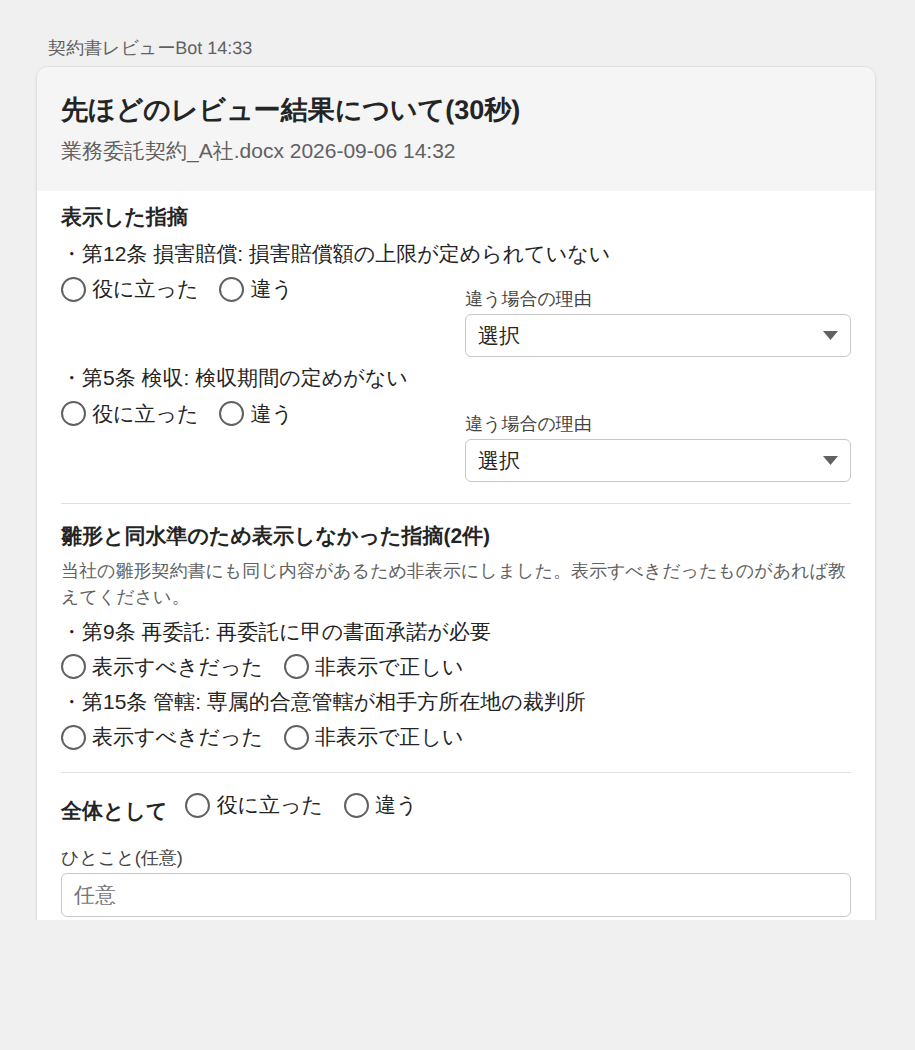
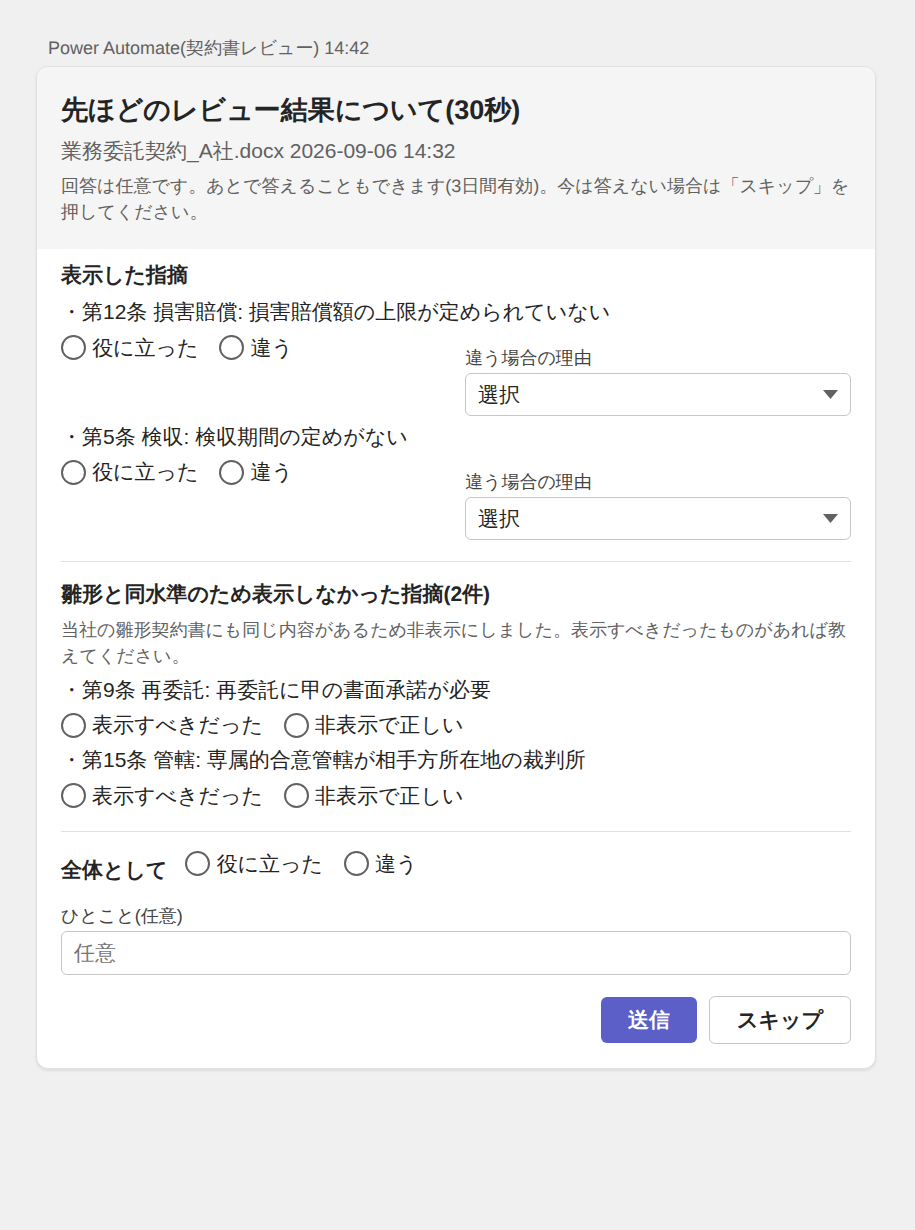
フィードバックカードを回答任意・スキップ可にし、後続質問を妨げない設計に変更
- docs/10 5節: F2b の遅延送信(crv_FeedbackDelayMinutes)・スキップ・
  3日で無音終了・後から回答可、F2a は「質問」ノードで待たず別トピックで
  受ける、後続質問のためのグローバル変数とフォローアップ用トピック
- templates/adaptive_card_f2.json にスキップ action と説明文を追加、
  モックアップ再生成
- docs/03: F2b に Delay と f2_skip の記録、F2a を待たない形に書き換え、
  フォローアップ用トピックと前提チェック・環境変数を追記
- docs/02: Feedback の評価に「スキップ」を追加。docs/07 に回答任意を追記
- docs/09: 図6 に後続質問・Delay・スキップ分岐、図1a のラベルを更新

Claude-Session: https://claude.ai/code/session_01LXw8Ckfxe2G9zAEHq5uY8p

diff --git a/docs/images/card_f2_mock.html b/docs/images/card_f2_mock.html
@@ -20,4 +20,4 @@ textarea{height:56px;resize:none}
 .edit{border-left:3px solid #5b5fc7;padding-left:10px;margin-top:6px}
 .actions{margin-top:14px;text-align:right}.btn{display:inline-block;background:#5b5fc7;color:#fff;border-radius:4px;padding:6px 18px;font-weight:600}
 .ph{color:#8a8a8a}
-</style></head><body><div class="chat"><div class="sender">契約書レビューBot  14:33</div><div class="card"><div class="emph"><div class="tb b large">先ほどのレビュー結果について(30秒)</div><div class="tb sub">業務委託契約_A社.docx  2026-09-06 14:32</div></div><div class="tb b">表示した指摘</div><div class=""><div class="tb">・第12条 損害賠償: 損害賠償額の上限が定められていない</div><div class="cols"><div class="col"><div class="radios"><span><i class="radio"></i>役に立った</span><span><i class="radio"></i>違う</span></div></div><div class="col"><label class="l">違う場合の理由</label><select><option><span class="ph">選択</span></option></select></div></div></div><div class=""><div class="tb">・第5条 検収: 検収期間の定めがない</div><div class="cols"><div class="col"><div class="radios"><span><i class="radio"></i>役に立った</span><span><i class="radio"></i>違う</span></div></div><div class="col"><label class="l">違う場合の理由</label><select><option><span class="ph">選択</span></option></select></div></div></div><div class="tb b sep">雛形と同水準のため表示しなかった指摘(2件)</div><div class="tb sub small">当社の雛形契約書にも同じ内容があるため非表示にしました。表示すべきだったものがあれば教えてください。</div><div class=""><div class="tb">・第9条 再委託: 再委託に甲の書面承諾が必要</div><div class="radios"><span><i class="radio"></i>表示すべきだった</span><span><i class="radio"></i>非表示で正しい</span></div></div><div class=""><div class="tb">・第15条 管轄: 専属的合意管轄が相手方所在地の裁判所</div><div class="radios"><span><i class="radio"></i>表示すべきだった</span><span><i class="radio"></i>非表示で正しい</span></div></div><div class="cols sep"><div class="col auto"><div class="tb b">全体として</div></div><div class="col"><div class="radios"><span><i class="radio"></i>役に立った</span><span><i class="radio"></i>違う</span></div></div></div><label class="l">ひとこと(任意)</label><input class="t" value="" placeholder="任意"><div class="actions"><span class="btn">送信</span></div></div></div></body></html>
+.btn.sec{background:#fff;color:#242424;border:1px solid #c7c7c7;margin-left:8px}</style></head><body><div class="chat"><div class="sender">Power Automate(契約書レビュー)  14:42</div><div class="card"><div class="emph"><div class="tb b large">先ほどのレビュー結果について(30秒)</div><div class="tb sub">業務委託契約_A社.docx  2026-09-06 14:32</div><div class="tb sub small">回答は任意です。あとで答えることもできます(3日間有効)。今は答えない場合は「スキップ」を押してください。</div></div><div class="tb b">表示した指摘</div><div class=""><div class="tb">・第12条 損害賠償: 損害賠償額の上限が定められていない</div><div class="cols"><div class="col"><div class="radios"><span><i class="radio"></i>役に立った</span><span><i class="radio"></i>違う</span></div></div><div class="col"><label class="l">違う場合の理由</label><select><option><span class="ph">選択</span></option></select></div></div></div><div class=""><div class="tb">・第5条 検収: 検収期間の定めがない</div><div class="cols"><div class="col"><div class="radios"><span><i class="radio"></i>役に立った</span><span><i class="radio"></i>違う</span></div></div><div class="col"><label class="l">違う場合の理由</label><select><option><span class="ph">選択</span></option></select></div></div></div><div class="tb b sep">雛形と同水準のため表示しなかった指摘(2件)</div><div class="tb sub small">当社の雛形契約書にも同じ内容があるため非表示にしました。表示すべきだったものがあれば教えてください。</div><div class=""><div class="tb">・第9条 再委託: 再委託に甲の書面承諾が必要</div><div class="radios"><span><i class="radio"></i>表示すべきだった</span><span><i class="radio"></i>非表示で正しい</span></div></div><div class=""><div class="tb">・第15条 管轄: 専属的合意管轄が相手方所在地の裁判所</div><div class="radios"><span><i class="radio"></i>表示すべきだった</span><span><i class="radio"></i>非表示で正しい</span></div></div><div class="cols sep"><div class="col auto"><div class="tb b">全体として</div></div><div class="col"><div class="radios"><span><i class="radio"></i>役に立った</span><span><i class="radio"></i>違う</span></div></div></div><label class="l">ひとこと(任意)</label><input class="t" placeholder="任意"><div class="actions"><span class="btn">送信</span><span class="btn sec">スキップ</span></div></div></div></body></html>

diff --git a/docs/03-flows.md b/docs/03-flows.md
@@ -24,7 +24,8 @@
 | 6 | Dataverse に docs/02 のテーブルを作成済み。Template に契約種別 × 立場ごとの有効な雛形が登録済み | ソリューション |
 | 7 | 業務判定者が Teams でアダプティブカードを受け取れる | テスト送信 |
 | 8 | Bot の公開チャネルを確認する。Microsoft 365 Copilot から使う場合、会話内のアダプティブカード(入力・ToggleVisibility)とトピックからの質問に制約があるため、本番フィードバックは F2b(Power Automate から Teams へ投稿)にする。利用者の UPN が `System.User.Email` 等で取れることを確認 | Copilot Studio の設定 > チャネル、テストで変数を確認 |
-| 9 | 環境変数を作成: `crv_JudgeModelDeployment`(審査用モデル)、`crv_FinalRecallThreshold`(例 0.05)、`crv_TeamsChannelOrUsers`、`crv_TestCaseLibraryUrl`、`crv_MaxFindingsPerCard`(例 10) | ソリューション > 環境変数 |
+| 9 | F2a(会話内カード)を使う場合: `System.Activity.Value` を条件にしたアクティビティ受信トリガーのトピックが作れることを確認(カードの送信を「質問」ノードで待たずに受けるため。docs/10 5.2節) | 新しいトピックでトリガーを確認 |
+| 10 | 環境変数を作成: `crv_JudgeModelDeployment`(審査用モデル)、`crv_FinalRecallThreshold`(例 0.05)、`crv_TeamsChannelOrUsers`、`crv_TestCaseLibraryUrl`、`crv_MaxFindingsPerCard`(例 10) | ソリューション > 環境変数 |
 
 ## 1. 子フロー: レビュー実行
 
@@ -62,7 +63,7 @@
    - **カスタムコネクタ(Foundry)呼び出し** … temperature 0。
    - スコープ「段階2 JSON パース」… `{…}` 切り出し + JSON の解析。失敗時は全指摘を `applies_to_template = false`、`template_reason = "段階2失敗"` として扱い、`parse_failed_s2 = true` を記録(最終出力に全件出す方が、黙って消えるより安全)。
 4. **結合** … Select で段階1指摘に段階2の項目を id で結合(段階2の配列を `filter` で id 一致させて先頭を取る)。結果を templates/findings_schema.json に合わせた `findings` 配列にする。
-5. **表示用テキストとカードの生成** … `findings` を **Filter array** `applies_to_template = false` した配列から、次の2つを同じ元データで作る(docs/10 5節)。
+5. **表示用テキストとカードの生成** … `findings` を **Filter array** `applies_to_template = false` した配列から、次の2つを同じ元データで作る(docs/10 6節)。
    - 作成「表示用テキスト」: Select で Markdown の表の行「| 重要度 | 条項 | カテゴリ | タイトル | 内容 | 提案 |」→ `join` し、見出し行と結合。0件なら「雛形契約書と同水準の内容であり、追加の指摘はありません」。カード非対応チャネルの代替と詳細表示用。
    - 作成「カード JSON」: Select で指摘1件を Container(templates/adaptive_card_result.json の形)の JSON 文字列に → `join(…, ',')` → ヘッダ(ファイル名・立場・雛形版・件数)と末尾の注記(「雛形と同水準のため表示しなかった指摘が n 件」)を `concat`。指摘が `crv_MaxFindingsPerCard` 件を超える場合は `chunk()` で複数カードにするか、一覧のみにする。
 6. **PowerApps または Flow に応答する**
@@ -74,7 +75,7 @@
    - model(テキスト)
    - template_id、template_version(テキスト)
 
-**Bot 側の変更**: トピックのアクションをこの子フローに差し替える。Markdown を出していた「メッセージを送信」ノードは、数式モードで `ParseJSON(Topic.card_json)` を指定したアダプティブカードのノードに置き換える(docs/10 5.3節)。`display_text` はカード非対応チャネルの代替として残す。`findings_json` は表示しないが F2 の記録用に変数に保持する。
+**Bot 側の変更**: トピックのアクションをこの子フローに差し替える。Markdown を出していた「メッセージを送信」ノードは、数式モードで `ParseJSON(Topic.card_json)` を指定したアダプティブカードのノードに置き換える(docs/10 6.3節)。`display_text` はカード非対応チャネルの代替として残す。`findings_json` は表示しないが F2 の記録用に変数に保持する。
 
 ## 2. F1 評価実行
 
@@ -144,10 +145,15 @@
 
 **トリガー**: 手動(子フロー)。Bot のトピックが子フロー「レビュー実行」の完了後に、`findings_json`、`display_text`、`prompt_version`、利用者の UPN、ファイル名、会話IDを渡して呼ぶ(トピックの応答を待たせないため、非同期で呼べる「フローを実行(応答を待たない)」を使う)。
 
+0. **Delay** … `crv_FeedbackDelayMinutes`(既定 10 分)待つ。利用者がレビュー結果について質問する時間を確保し、直後にカードが割り込まないようにする。
 1. `findings_json` から `applies_to_template = false` の指摘を Filter array し、`ask_feedback = true` のもの(無ければ先頭)から最大 `crv_ProductionAskPerConversation` 件(既定 2)を「表示した指摘」に、`applies_to_template = true` から最大 2 件を「表示しなかった指摘」に選ぶ。
 2. templates/adaptive_card_f2.json の形でカード JSON を組み立てる(指摘の 1 行要約 = 「条項 カテゴリ: タイトル」、入力 id = `r_<A#>`, `rc_<A#>`, `h_<A#>`)。
 3. **Teams: アダプティブ カードを投稿して応答を待機**(受信者 = 利用者の UPN、チャット)。タイムアウト 3 日。
-4. 回答があれば、`r_<A#>` ごと・`h_<A#>` ごと・`overall` の各1行を **Dataverse: 行を追加(Feedback)** … 会話ID、日時、評価、理由分類、指摘 JSON(該当指摘 1 件)、非表示指摘か、プロンプト版、入力参照(ファイル名)、トリアージ状態=未処理。タイムアウトは何も記録しない。
+4. 回答の `data.action` で分岐する。
+   - `f2_submit`: `r_<A#>` ごと・`h_<A#>` ごと・`overall` の各1行を **Dataverse: 行を追加(Feedback)** … 会話ID、日時、評価、理由分類、指摘 JSON(該当指摘 1 件)、非表示指摘か、プロンプト版、入力参照(ファイル名)、トリアージ状態=未処理。
+   - `f2_skip`: 評価 = スキップ の会話単位行(指摘 JSON は空)を1行だけ追加(回答率の計測用。トリアージ対象外なので状態 = 見送り)。
+   - タイムアウト: 何も記録しない。
+   回答は任意で、会話は止めない(docs/10 5節)。
 
 ### 3b. F2a フィードバック記録(会話内・Teams チャネルのみ)
 
@@ -169,7 +175,9 @@
 1. **Dataverse: 行を追加(Feedback)** … フィードバックID = `concat(conversation_id, '-', formatDateTime(utcNow(),'HHmmssfff'))`、日時、評価、理由分類、理由、指摘 JSON、非表示指摘か、プロンプト版、入力参照、トリアージ状態=未処理。
 2. 応答を返す(受付完了)。
 
-**Bot 側**: Teams チャネルで公開している場合のみ、最終出力の直後に templates/adaptive_card_f2.json と同じカードを「質問(Adaptive Card)」ノードで表示し、回答を F2a に渡す。F2a に回答があった会話では F2b を送らない(子フロー出力の `feedback_sent` で制御)。Microsoft 365 Copilot から使う場合は F2a を使わない。
+**Bot 側**: Teams チャネルで公開している場合のみ。最終出力の直後に templates/adaptive_card_f2.json と同じカードを **「メッセージを送信」ノード** で表示し、トピックはそのまま終了する(「質問」ノードで待たない。待つと利用者の自由文の質問が再確認に阻まれる)。カードの送信は、アクティビティ受信トリガーで `System.Activity.Value` の `action` が `f2_submit` / `f2_skip` のときに起動する別トピックで受け、F2a を呼ぶ。F2a に回答があった会話では F2b を送らない(`feedback_sent` を会話変数に立て、F2b の Delay 後に確認する)。Microsoft 365 Copilot から使う場合は F2a を使わない。
+
+**フォローアップ用トピック**(docs/10 5.3節): 子フローの出力 `findings_json`、契約書テキスト、雛形IDをグローバル変数に保持し、「この指摘について詳しく」「第◯条はなぜ問題か」などの後続質問を、質問文と変数を Foundry に渡す「質問応答」プロンプトで処理する。レビュー結果表示後の会話はこのトピックにフォールバックさせる。
 
 ## 4. F3 人判定依頼(指摘単位の Q1 / Q2)
 

diff --git a/docs/09-diagrams.md b/docs/09-diagrams.md
@@ -34,7 +34,7 @@ flowchart LR
     GOLD[("Dataverse\nTemplate / ExpectedFinding\n受け入れ済み条件一覧")] -.-> CF
     CF -->|"card_json / display_text(非該当のみ)\nfindings_json(全件)"| T1
     T1 -->|"レビュー結果カード\n(非対応チャネルは Markdown 表)"| U
-    T1 -->|"完了後(非同期)"| F2B["F2b フィードバック カード送信\n(Power Automate → 利用者の Teams)"]
+    T1 -->|"完了後(非同期)"| F2B["F2b フィードバック カード送信\n(10分遅延・回答任意・スキップ可)"]
     F2B -->|"指摘単位ボタン + 非表示指摘の確認"| TEAMSU["利用者の Teams チャット"]
     TEAMSU --> U
     U -->|"役に立った / 違う(理由)\n表示すべきだった / 非表示で正しい"| TEAMSU
@@ -287,17 +287,24 @@ sequenceDiagram
     CF-->>B: findings_json(全件+判定), display_text
     B-->>U: display_text(非該当の指摘のみ)
     B-)F2: 完了後に非同期で呼ぶ<br/>findings_json, UPN, ファイル名, 会話ID
+    U->>B: レビュー結果について質問(会話は止まらない)
+    B-->>U: フォローアップ用トピックが Global.findings_json を使って回答
+    F2->>F2: Delay(crv_FeedbackDelayMinutes, 既定10分)
     F2->>F2: 表示指摘 最大2件 + 非表示指摘 最大2件を選ぶ
     F2->>T: アダプティブ カードを投稿して応答を待機(3日)
-    T-->>U: 「先ほどのレビュー結果について(30秒)」
-    alt 回答あり
+    T-->>U: 「先ほどのレビュー結果について(30秒)」回答は任意
+    alt 送信
         U->>T: 表示指摘: 役に立った/違う+理由, 非表示指摘: 表示すべきだった/非表示で正しい, 全体
-        T-->>F2: data
+        T-->>F2: data(action=f2_submit)
         F2->>DV: 指摘ごとに Feedback 行を追加(契約書本文は保存しない)
+    else スキップ
+        U->>T: スキップ
+        T-->>F2: data(action=f2_skip)
+        F2->>DV: 評価=スキップ の会話単位行を1行(回答率の計測)
     else 3日で未回答
         F2->>F2: 何も記録せず終了
     end
-    Note over B,DV: F2a(会話内カード)は Teams チャネルのみの補助。<br/>回答があれば F2b は送らない
+    Note over B,DV: F2a(会話内カード)は Teams チャネルのみの補助。「質問」ノードで待たず、<br/>送信は System.Activity.Value を見る別トピックで受ける。回答があれば F2b は送らない
 ```
 
 ## 7. F3 人判定依頼(指摘単位の Q1 / Q2)

diff --git a/docs/01-loop-design.md b/docs/01-loop-design.md
@@ -116,7 +116,7 @@ Bot のトピックと F1 の両方がこの子フローを呼びます。同じ
 ```
 
 - 2件目は段階2で「雛形に該当」と判定されたため最終出力には表示されませんが、JSON には残り、評価と人判定の対象になります。
-- 利用者向けの表示(Markdown の表、アダプティブカード)は、どちらもこの JSON から子フローが生成します。LLM に表を直接書かせません(移行手順は docs/10 5節)。
+- 利用者向けの表示(Markdown の表、アダプティブカード)は、どちらもこの JSON から子フローが生成します。LLM に表を直接書かせません(移行手順は docs/10 6節)。
 - `template_excerpt` は人判定カード(F3)で業務判定者が Q2 を判断するために使います。段階2のプロンプトに「該当箇所を引用すること」を含めます。
 - カテゴリと重要度の語彙は docs/05 のルーブリックで定義し、プロンプト側にも同じ語彙を渡します。
 - 既存のカスタムコネクタが段階2の結果を「削除済みの一覧」でしか返していない場合は、段階2のプロンプトを「削除せず判定フラグと理由を付けて全件返す」に変更し、削除は子フロー側(表示用テキスト生成時)で行います。

diff --git a/docs/02-dataverse-schema.md b/docs/02-dataverse-schema.md
@@ -185,7 +185,7 @@ Bot 利用者の評価を **指摘単位** で記録します(会話単位の行
 | 会話ID | `crv_conversationid` | テキスト(100) | ○ | Copilot Studio の `System.Conversation.Id` |
 | 日時 | `crv_receivedon` | 日時 | ○ | |
 | 利用者 | `crv_user` | テキスト(200) | | 匿名運用ならメール以外の識別子 |
-| 評価 | `crv_rating` | 選択肢 | ○ | 役に立った / 違う / 表示すべきだった / 非表示で正しい |
+| 評価 | `crv_rating` | 選択肢 | ○ | 役に立った / 違う / 表示すべきだった / 非表示で正しい / スキップ(会話単位、回答率の計測用) |
 | 理由分類 | `crv_reasoncode` | 選択肢 | | 読み違え / 当社には不要 / 雛形と同じ内容 / 重要度が違う / その他 |
 | 理由 | `crv_reason` | 複数行テキスト | | 任意の自由記述 |
 | 指摘 JSON | `crv_findingjson` | 複数行テキスト | | 評価対象の指摘1件。会話単位の行では空 |
